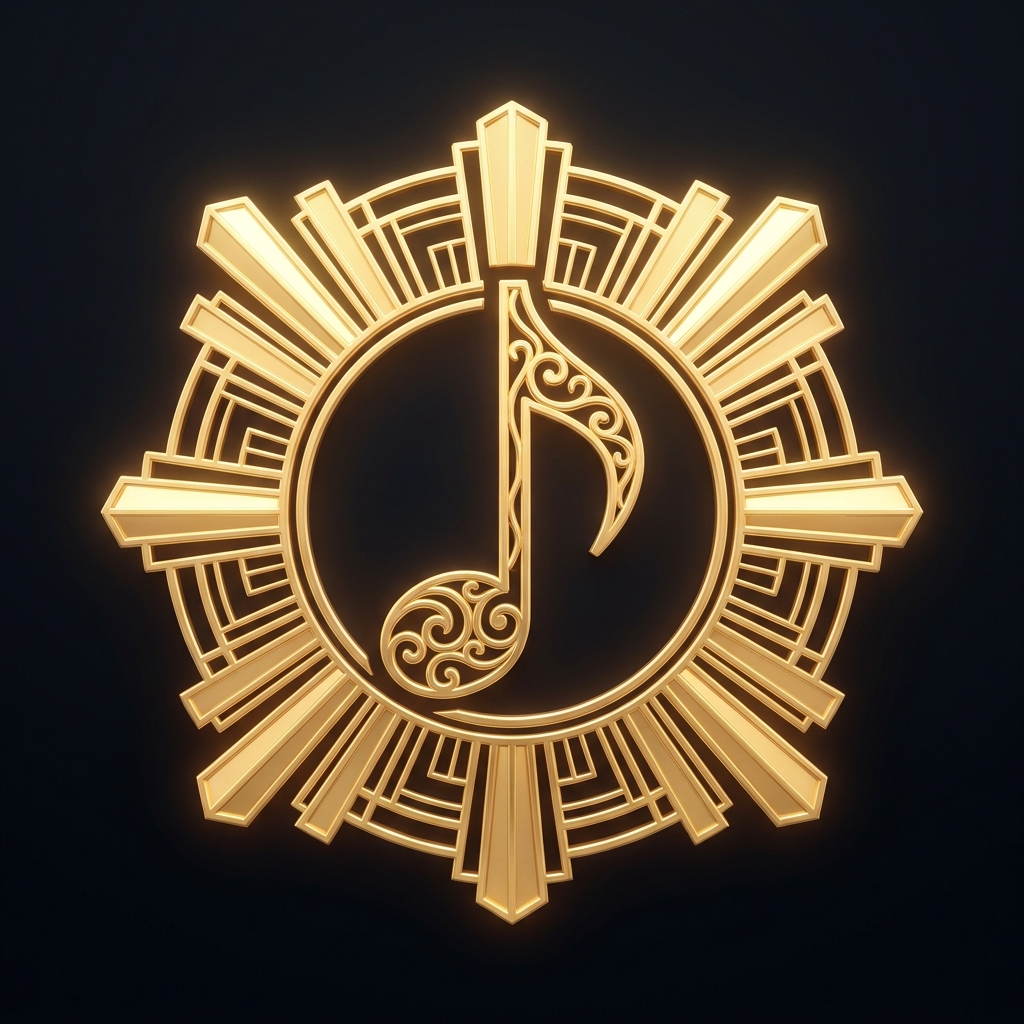
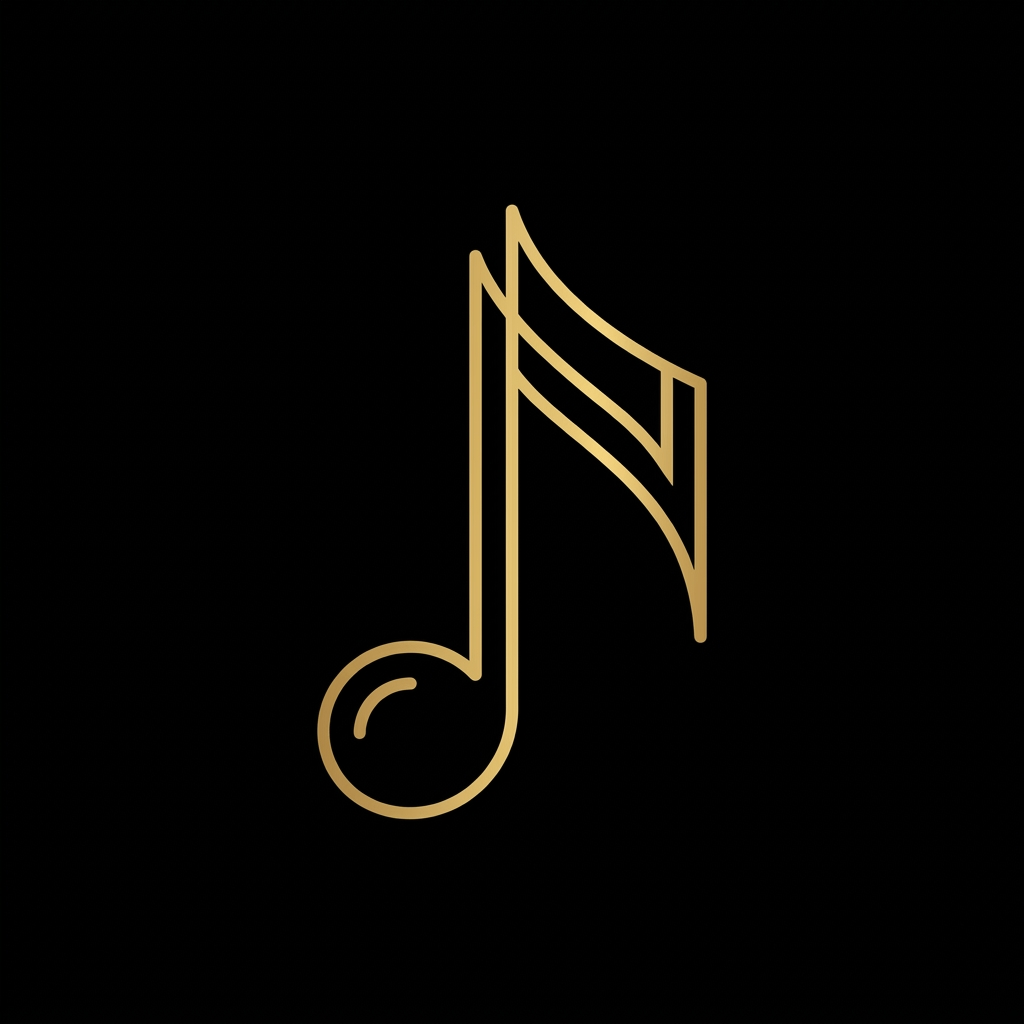
M hotkey maxes everything incl. tempo (AD-style); minimal Notes emblem

diff --git a/src/hooks/useHotkeys.ts b/src/hooks/useHotkeys.ts
@@ -20,7 +20,7 @@ function buyTier(id: number) {
 function act(key: string) {
   const s = useGameStore.getState()
   if (key >= '1' && key <= '7') buyTier(Number(key))
-  else if (key === 'm') for (let id = 1; id <= TIER_COUNT; id++) s.buyMaxTier(id)
+  else if (key === 'm') { for (let id = 1; id <= TIER_COUNT; id++) s.buyMaxTier(id); s.buyMaxTempo() } // max EVERYTHING (AD-style)
   else if (key === 't') s.buyMaxTempo()
 }
 